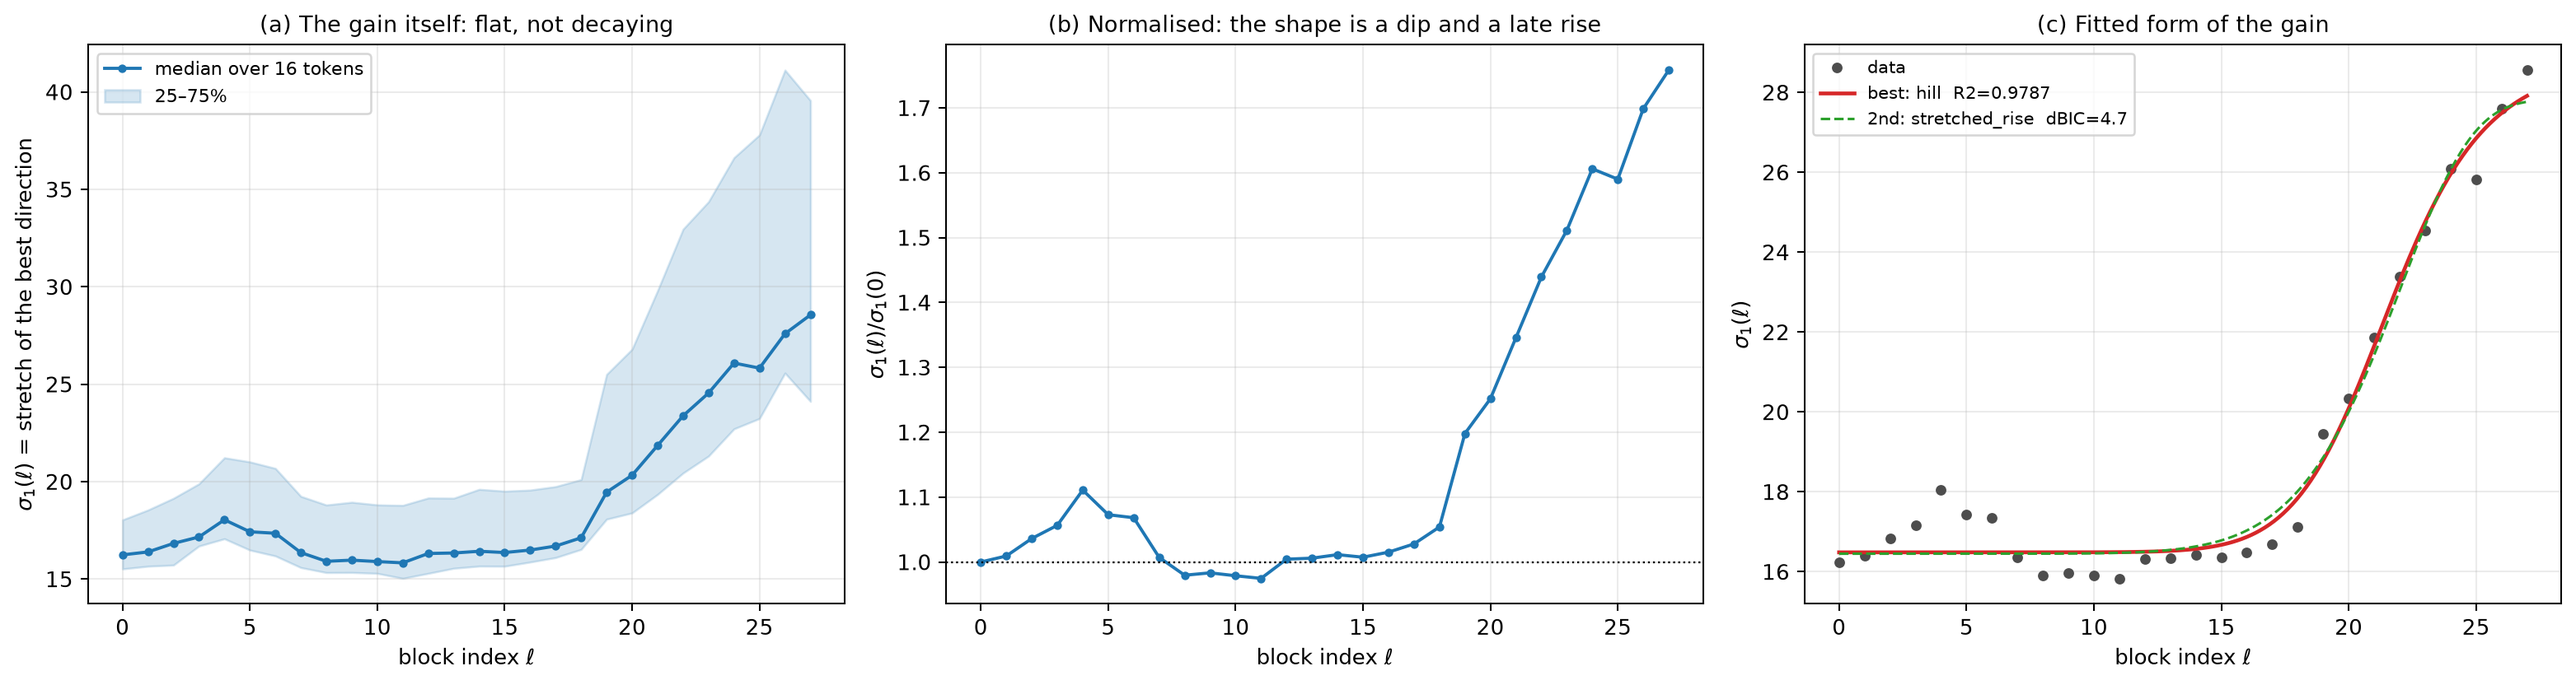
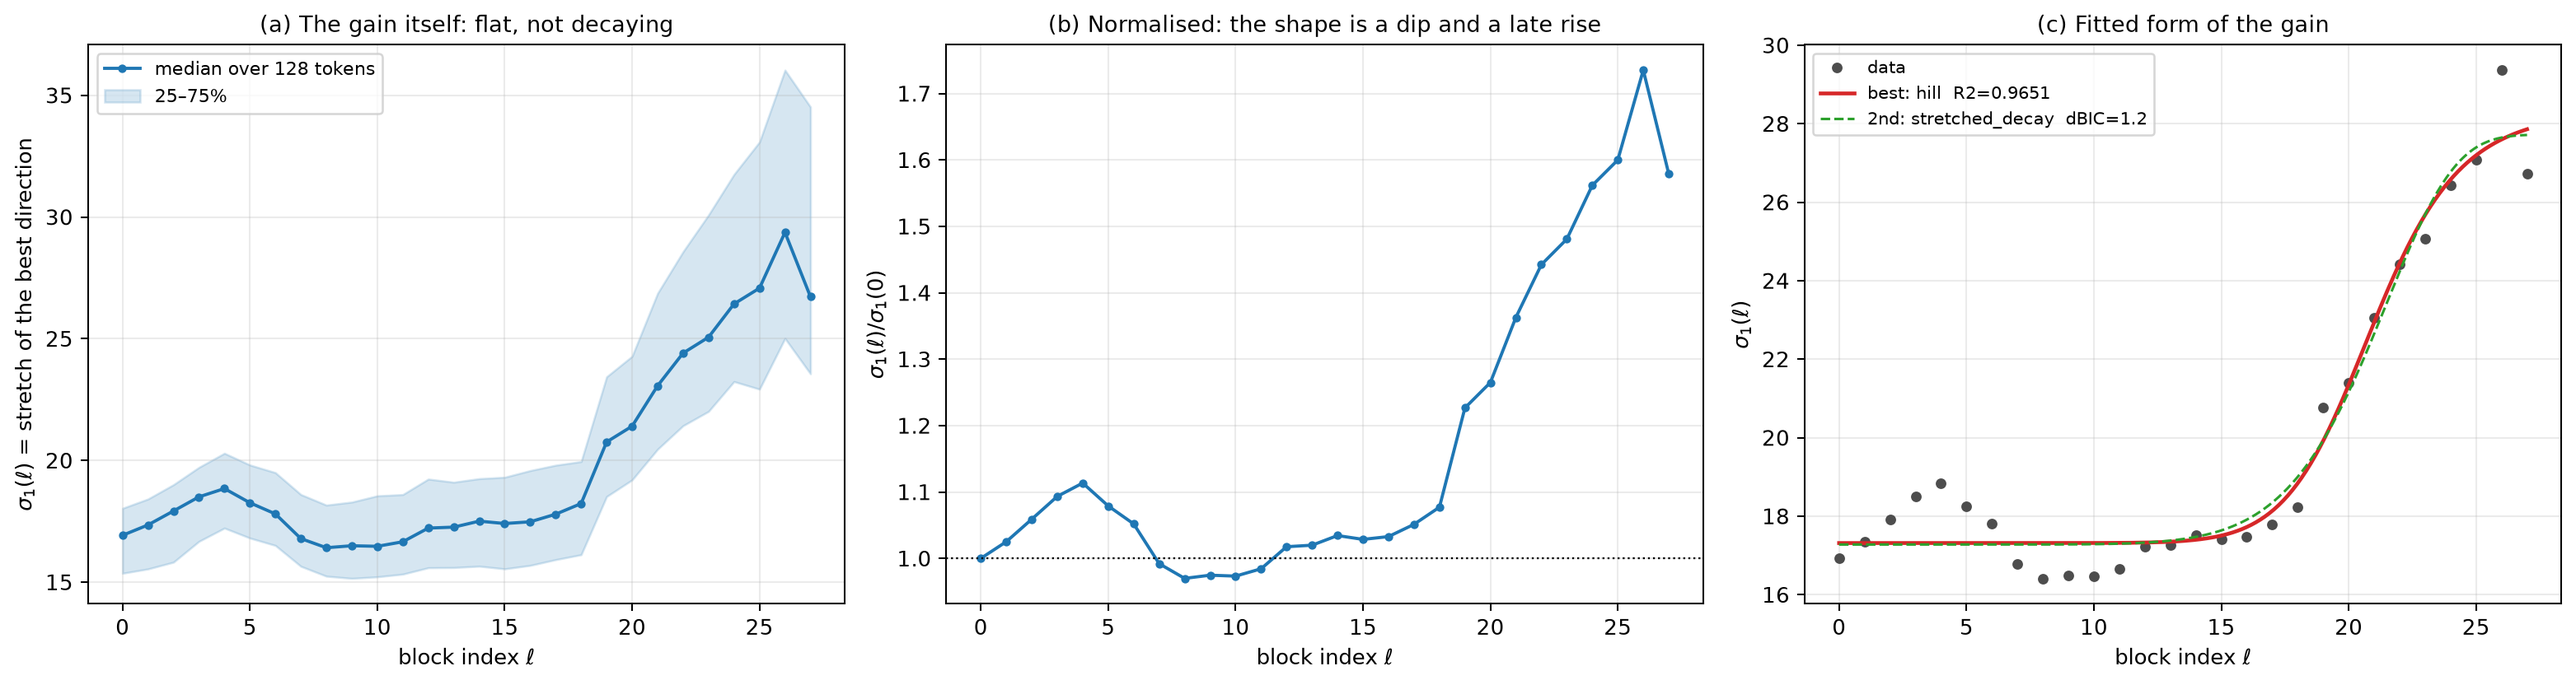
Block-0 amplification and near-identity depth transport, 128 tokens; measurement caveat

diff --git a/notebook/notebook.md b/notebook/notebook.md
@@ -2159,15 +2159,31 @@ the last ten.
 
 **What we should report instead.** The per-block singular values, which localise the gain:
 
-<!-- block spectrum: generated from the 128-token run -->
+![block spectrum](figures/fits/block_spectrum.png)
 
 **Panel (a).** $\sigma_1,\sigma_2,\sigma_4$ of **one block's** Jacobian at each depth (median over
-tokens). **Panel (b).** $\sigma_1/\sigma_8$ within one block: above 1 means the block itself is
+128 tokens). **Panel (b).** $\sigma_1/\sigma_8$ within one block: above 1 means the block itself is
 anisotropic.
 
-This is the measurement that explains the depth map: the gain is concentrated in specific blocks
-rather than spread evenly, and the question "which blocks" is answerable and model-specific. The
-cross-model version is the next section.
+**This is the measurement that explains the depth map, and it is the clearest non-trivial result of
+this section.** The first block stretches the perturbation by ×28; **every other block is within a few
+percent of the identity** (1.00–1.05, some 0.99). So:
+
+- the perturbation is amplified **once**, at the block where attention first mixes the prompt into the
+  generated position;
+- the remaining 27 blocks carry it almost unchanged, and the ×1.75 "late rise" of $\sigma_1(\ell)$ is
+  the slow compounding of those 1–5% gains, not a second amplification event;
+- the first block is also the most anisotropic *within itself* (×1.45 between its largest and smallest
+  tracked direction); the rest are ×1.05–1.10.
+
+**Measurement caveat, stated plainly.** Every number here is the stretch **within the 8-dimensional
+tangent subspace we propagate**, not the full 1536-dimensional top singular value. For a random 8-plane
+the restriction is a lower bound on the full $\sigma_1$, and the block-0 anisotropy (×1.45) means the
+full value is at least that much larger. All comparisons — across depth, across tokens, across models —
+are like-for-like, but the absolute "×28" should be read as "×28 in the tracked subspace".
+
+This is the result that should replace the old $\lambda_1(\ell)$ plot: **one entry block does the
+amplification; the depth is a near-identity transport.**
 
 ## 9.3b Where each model does its stretching (the right y-axis)
 
